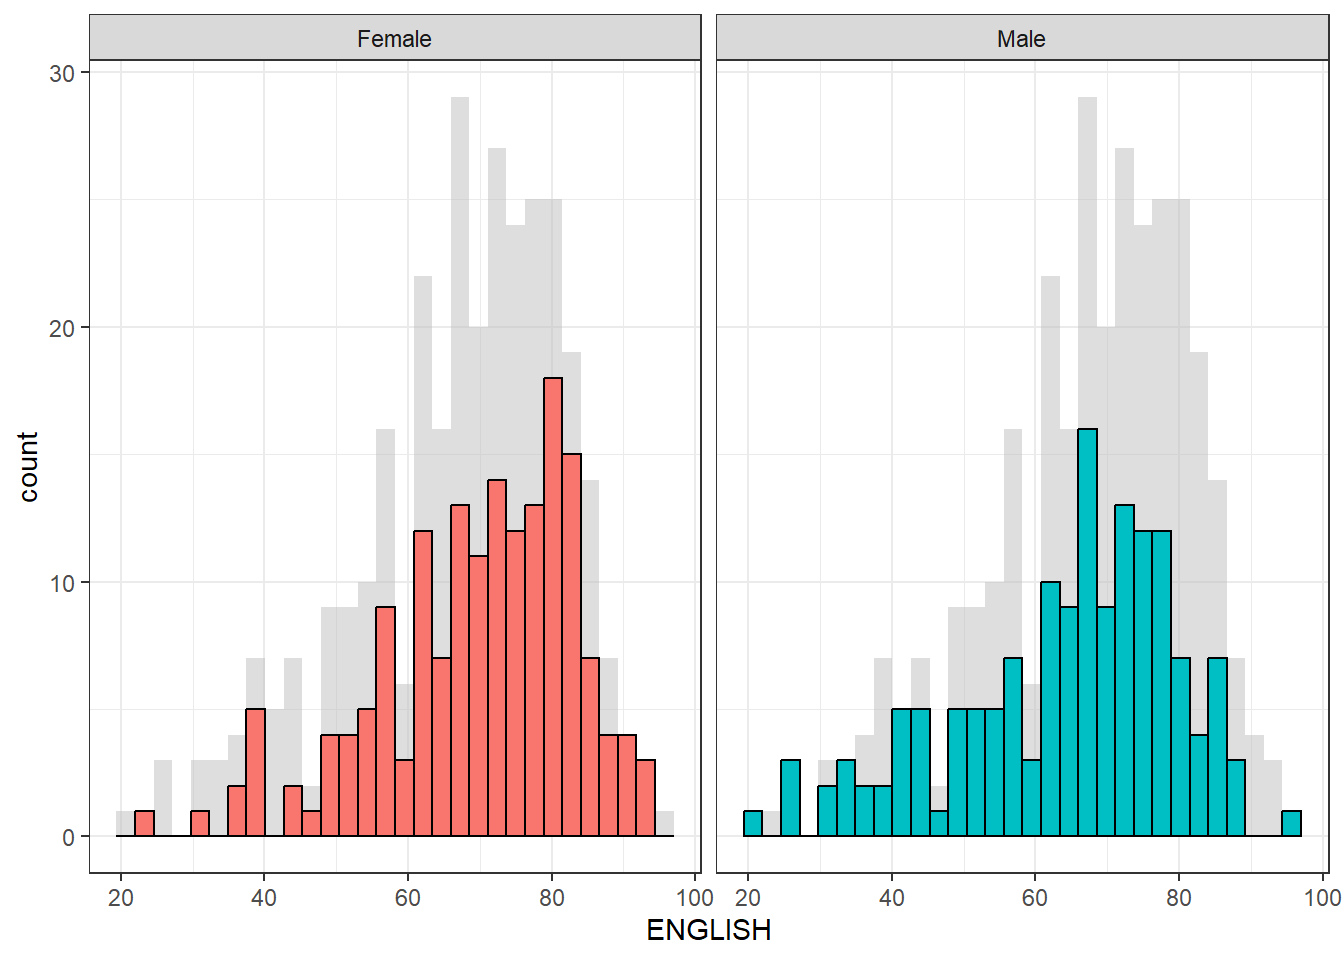
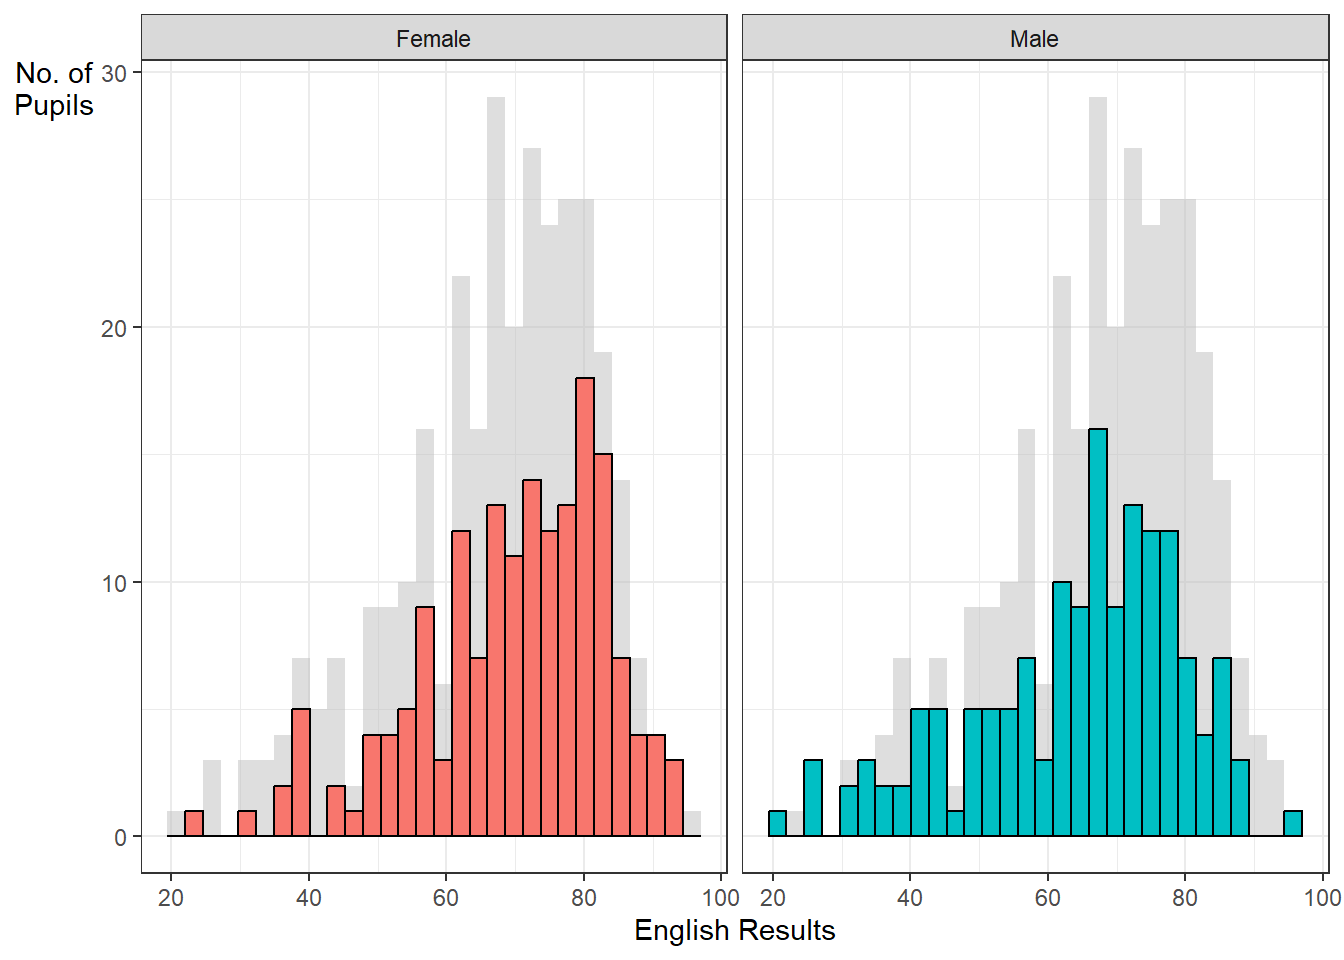
Commit refinements to In-class Ex01 4

diff --git a/_site/In-class_Ex/In-class_Ex01/In-class_Ex01.html b/_site/In-class_Ex/In-class_Ex01/In-class_Ex01.html
@@ -276,7 +276,7 @@ code span.wa { color: #60a0b0; font-weight: bold; font-style: italic; } /* Warni
 </section>
 <section id="about-the-data" class="level2">
 <h2 class="anchored" data-anchor-id="about-the-data">About the data</h2>
-<p>The data in question is exam data for primary 3 students for the subjects: English, Maths and Science. In addition, the class and gender of each student is given.</p>
+<p>The data in question is exam data for primary 3 students for the subjects: English, Math, and Science. In addition, the class and gender of each student is given.</p>
 </section>
 </section>
 <section id="plotting-a-simple-horizontal-bar-chart" class="level1">
@@ -389,8 +389,9 @@ code span.wa { color: #60a0b0; font-weight: bold; font-style: italic; } /* Warni
 <span id="cb7-11"><a href="#cb7-11" aria-hidden="true" tabindex="-1"></a>             <span class="at">color=</span><span class="st">"grey30"</span>,</span>
 <span id="cb7-12"><a href="#cb7-12" aria-hidden="true" tabindex="-1"></a>             <span class="at">linetype=</span><span class="st">"dashed"</span>, </span>
 <span id="cb7-13"><a href="#cb7-13" aria-hidden="true" tabindex="-1"></a>             <span class="at">size=</span><span class="dv">1</span>) <span class="sc">+</span> <span class="fu">annotate</span>(<span class="st">"text"</span>, <span class="at">x=</span><span class="dv">75</span>, <span class="at">y=</span><span class="dv">40</span>, <span class="at">label=</span><span class="st">"Median"</span>, <span class="at">angle=</span><span class="dv">90</span>, <span class="at">size=</span><span class="dv">3</span>, <span class="at">color=</span><span class="st">"grey30"</span>) <span class="sc">+</span></span>
-<span id="cb7-14"><a href="#cb7-14" aria-hidden="true" tabindex="-1"></a>             <span class="fu">annotate</span>(<span class="st">"text"</span>, <span class="at">x=</span><span class="dv">68</span>, <span class="at">y=</span><span class="dv">40</span>, <span class="at">label=</span><span class="st">"Mean"</span>, <span class="at">angle=</span><span class="dv">90</span>, <span class="at">size=</span><span class="dv">3</span>, <span class="at">color=</span><span class="st">"red"</span>) <span class="sc">+</span></span>
-<span id="cb7-15"><a href="#cb7-15" aria-hidden="true" tabindex="-1"></a>  <span class="fu">ylim</span>(<span class="dv">0</span>,<span class="dv">45</span>)</span></code><button title="Copy to Clipboard" class="code-copy-button"><i class="bi"></i></button></pre></div>
+<span id="cb7-14"><a href="#cb7-14" aria-hidden="true" tabindex="-1"></a>             <span class="fu">annotate</span>(<span class="st">"text"</span>, <span class="at">x=</span><span class="dv">68</span>, <span class="at">y=</span><span class="dv">40</span>, <span class="at">label=</span><span class="st">"Mean"</span>, <span class="at">angle=</span><span class="dv">90</span>, <span class="at">size=</span><span class="dv">3</span>, <span class="at">color=</span><span class="st">"red"</span>) <span class="sc">+</span> <span class="fu">ylim</span>(<span class="dv">0</span>,<span class="dv">45</span>) <span class="sc">+</span> <span class="fu">labs</span>(<span class="at">x =</span> <span class="st">"Math Results"</span>, <span class="at">y =</span> <span class="st">"No. of</span><span class="sc">\n</span><span class="st">Pupils"</span>) <span class="sc">+</span></span>
+<span id="cb7-15"><a href="#cb7-15" aria-hidden="true" tabindex="-1"></a>  <span class="fu">theme_grey</span>() <span class="sc">+</span></span>
+<span id="cb7-16"><a href="#cb7-16" aria-hidden="true" tabindex="-1"></a>  <span class="fu">theme</span>(<span class="at">axis.title.y=</span><span class="fu">element_text</span>(<span class="at">angle =</span> <span class="dv">0</span>))</span></code><button title="Copy to Clipboard" class="code-copy-button"><i class="bi"></i></button></pre></div>
 </details>
 <div class="cell-output-display">
 <p><img src="In-class_Ex01_files/figure-html/unnamed-chunk-7-1.png" class="img-fluid" width="672"></p>
@@ -409,7 +410,9 @@ code span.wa { color: #60a0b0; font-weight: bold; font-style: italic; } /* Warni
 <span id="cb8-2"><a href="#cb8-2" aria-hidden="true" tabindex="-1"></a>  <span class="fu">geom_histogram</span>(<span class="at">data =</span> exam_data, <span class="at">fill =</span> <span class="st">"darkgrey"</span>) <span class="sc">+</span></span>
 <span id="cb8-3"><a href="#cb8-3" aria-hidden="true" tabindex="-1"></a>  <span class="fu">facet_wrap</span>(<span class="sc">~</span> GENDER) <span class="sc">+</span></span>
 <span id="cb8-4"><a href="#cb8-4" aria-hidden="true" tabindex="-1"></a>  <span class="fu">guides</span>(<span class="at">fill =</span> <span class="cn">FALSE</span>) <span class="sc">+</span>  </span>
-<span id="cb8-5"><a href="#cb8-5" aria-hidden="true" tabindex="-1"></a>  <span class="fu">theme_bw</span>()</span></code><button title="Copy to Clipboard" class="code-copy-button"><i class="bi"></i></button></pre></div>
+<span id="cb8-5"><a href="#cb8-5" aria-hidden="true" tabindex="-1"></a>  <span class="fu">theme_bw</span>() <span class="sc">+</span> <span class="fu">labs</span>(<span class="at">x =</span> <span class="st">"English Results"</span>, <span class="at">y =</span> <span class="st">"No. of</span><span class="sc">\n</span><span class="st">Pupils"</span>) <span class="sc">+</span></span>
+<span id="cb8-6"><a href="#cb8-6" aria-hidden="true" tabindex="-1"></a>  <span class="fu">theme_grey</span>() <span class="sc">+</span></span>
+<span id="cb8-7"><a href="#cb8-7" aria-hidden="true" tabindex="-1"></a>  <span class="fu">theme</span>(<span class="at">axis.title.y=</span><span class="fu">element_text</span>(<span class="at">angle =</span> <span class="dv">0</span>))</span></code><button title="Copy to Clipboard" class="code-copy-button"><i class="bi"></i></button></pre></div>
 </details>
 <div class="cell-output-display">
 <p><img src="In-class_Ex01_files/figure-html/unnamed-chunk-8-1.png" class="img-fluid" width="672"></p>
@@ -435,7 +438,8 @@ code span.wa { color: #60a0b0; font-weight: bold; font-style: italic; } /* Warni
 <span id="cb9-6"><a href="#cb9-6" aria-hidden="true" tabindex="-1"></a>  <span class="fu">geom_histogram</span>(<span class="at">colour =</span> <span class="st">"black"</span>) <span class="sc">+</span></span>
 <span id="cb9-7"><a href="#cb9-7" aria-hidden="true" tabindex="-1"></a>  <span class="fu">facet_wrap</span>(<span class="sc">~</span> GENDER) <span class="sc">+</span></span>
 <span id="cb9-8"><a href="#cb9-8" aria-hidden="true" tabindex="-1"></a>  <span class="fu">guides</span>(<span class="at">fill =</span> <span class="cn">FALSE</span>) <span class="sc">+</span>  </span>
-<span id="cb9-9"><a href="#cb9-9" aria-hidden="true" tabindex="-1"></a>  <span class="fu">theme_bw</span>()</span></code><button title="Copy to Clipboard" class="code-copy-button"><i class="bi"></i></button></pre></div>
+<span id="cb9-9"><a href="#cb9-9" aria-hidden="true" tabindex="-1"></a>  <span class="fu">theme_bw</span>() <span class="sc">+</span><span class="fu">labs</span>(<span class="at">x =</span> <span class="st">"English Results"</span>, <span class="at">y =</span> <span class="st">"No. of</span><span class="sc">\n</span><span class="st">Pupils"</span>) <span class="sc">+</span></span>
+<span id="cb9-10"><a href="#cb9-10" aria-hidden="true" tabindex="-1"></a>  <span class="fu">theme</span>(<span class="at">axis.title.y=</span><span class="fu">element_text</span>(<span class="at">angle =</span> <span class="dv">0</span>))</span></code><button title="Copy to Clipboard" class="code-copy-button"><i class="bi"></i></button></pre></div>
 </details>
 <div class="cell-output-display">
 <p><img src="In-class_Ex01_files/figure-html/unnamed-chunk-9-1.png" class="img-fluid" width="672"></p>
@@ -485,7 +489,8 @@ code span.wa { color: #60a0b0; font-weight: bold; font-style: italic; } /* Warni
 <span id="cb11-10"><a href="#cb11-10" aria-hidden="true" tabindex="-1"></a>  <span class="fu">geom_vline</span>(<span class="at">xintercept=</span><span class="dv">50</span>, </span>
 <span id="cb11-11"><a href="#cb11-11" aria-hidden="true" tabindex="-1"></a>             <span class="at">linetype=</span><span class="st">"dashed"</span>,</span>
 <span id="cb11-12"><a href="#cb11-12" aria-hidden="true" tabindex="-1"></a>             <span class="at">color=</span><span class="st">"grey60"</span>,</span>
-<span id="cb11-13"><a href="#cb11-13" aria-hidden="true" tabindex="-1"></a>             <span class="at">size=</span><span class="dv">1</span>) <span class="sc">+</span> <span class="fu">annotate</span>(<span class="st">"text"</span>, <span class="at">x=</span><span class="dv">14</span>, <span class="at">y=</span><span class="dv">5</span>, <span class="at">label=</span><span class="st">"Weak at both Subjects"</span>, <span class="at">angle=</span><span class="dv">0</span>, <span class="at">size=</span><span class="dv">5</span>, <span class="at">color=</span><span class="st">"red"</span>) <span class="sc">+</span> <span class="fu">annotate</span>(<span class="st">"text"</span>, <span class="at">x=</span><span class="dv">85</span>, <span class="at">y=</span><span class="dv">100</span>, <span class="at">label=</span><span class="st">"Strong at both Subjects"</span>, <span class="at">angle=</span><span class="dv">0</span>, <span class="at">size=</span><span class="dv">5</span>, <span class="at">color=</span><span class="st">"green"</span>) <span class="sc">+</span> <span class="fu">annotate</span>(<span class="st">"text"</span>, <span class="at">x=</span><span class="dv">85</span>, <span class="at">y=</span><span class="dv">5</span>, <span class="at">label=</span><span class="st">"Stronger at Maths"</span>, <span class="at">angle=</span><span class="dv">0</span>, <span class="at">size=</span><span class="dv">5</span>, <span class="at">color=</span><span class="st">"orange"</span>) <span class="sc">+</span> <span class="fu">annotate</span>(<span class="st">"text"</span>, <span class="at">x=</span><span class="dv">14</span>, <span class="at">y=</span><span class="dv">100</span>, <span class="at">label=</span><span class="st">"Stronger at English"</span>, <span class="at">angle=</span><span class="dv">0</span>, <span class="at">size=</span><span class="dv">5</span>, <span class="at">color=</span><span class="st">"orange"</span>)</span></code><button title="Copy to Clipboard" class="code-copy-button"><i class="bi"></i></button></pre></div>
+<span id="cb11-13"><a href="#cb11-13" aria-hidden="true" tabindex="-1"></a>             <span class="at">size=</span><span class="dv">1</span>) <span class="sc">+</span> <span class="fu">annotate</span>(<span class="st">"text"</span>, <span class="at">x=</span><span class="dv">14</span>, <span class="at">y=</span><span class="dv">5</span>, <span class="at">label=</span><span class="st">"Weak at both Subjects"</span>, <span class="at">angle=</span><span class="dv">0</span>, <span class="at">size=</span><span class="dv">5</span>, <span class="at">color=</span><span class="st">"red"</span>) <span class="sc">+</span> <span class="fu">annotate</span>(<span class="st">"text"</span>, <span class="at">x=</span><span class="dv">85</span>, <span class="at">y=</span><span class="dv">100</span>, <span class="at">label=</span><span class="st">"Strong at both Subjects"</span>, <span class="at">angle=</span><span class="dv">0</span>, <span class="at">size=</span><span class="dv">5</span>, <span class="at">color=</span><span class="st">"green"</span>) <span class="sc">+</span> <span class="fu">annotate</span>(<span class="st">"text"</span>, <span class="at">x=</span><span class="dv">85</span>, <span class="at">y=</span><span class="dv">5</span>, <span class="at">label=</span><span class="st">"Stronger at Maths"</span>, <span class="at">angle=</span><span class="dv">0</span>, <span class="at">size=</span><span class="dv">5</span>, <span class="at">color=</span><span class="st">"orange"</span>) <span class="sc">+</span> <span class="fu">annotate</span>(<span class="st">"text"</span>, <span class="at">x=</span><span class="dv">14</span>, <span class="at">y=</span><span class="dv">100</span>, <span class="at">label=</span><span class="st">"Stronger at English"</span>, <span class="at">angle=</span><span class="dv">0</span>, <span class="at">size=</span><span class="dv">5</span>, <span class="at">color=</span><span class="st">"orange"</span>) <span class="sc">+</span> </span>
+<span id="cb11-14"><a href="#cb11-14" aria-hidden="true" tabindex="-1"></a>  <span class="fu">labs</span>(<span class="at">x =</span> <span class="st">"Math Results"</span>, <span class="at">y =</span> <span class="st">"English Results"</span>)</span></code><button title="Copy to Clipboard" class="code-copy-button"><i class="bi"></i></button></pre></div>
 </details>
 <div class="cell-output-display">
 <p><img src="In-class_Ex01_files/figure-html/unnamed-chunk-11-1.png" class="img-fluid" width="672"></p>
